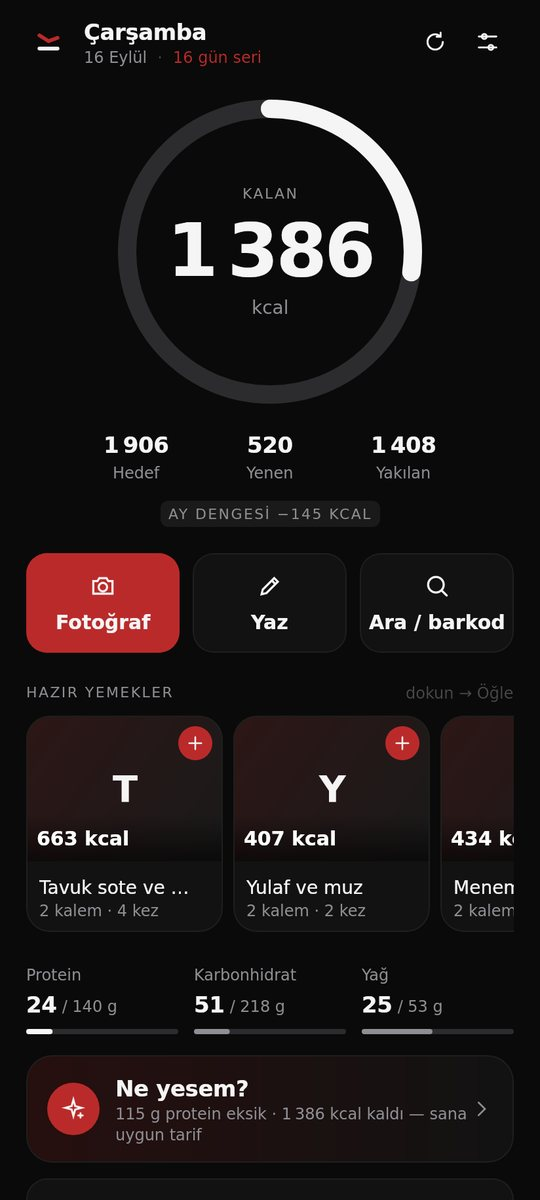
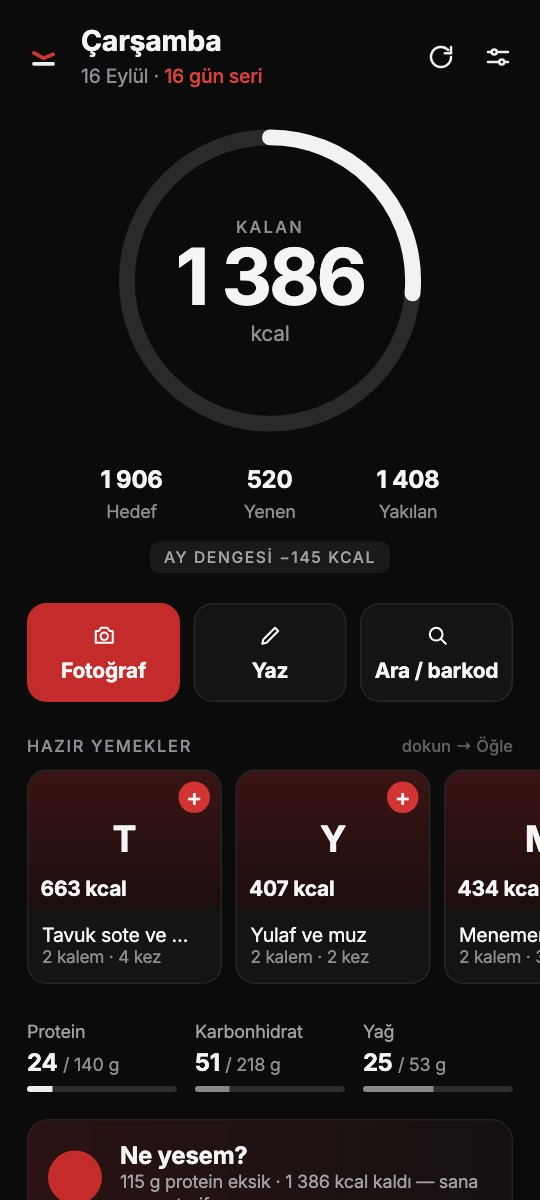
Switch the landing to the Akts red-orange accent and fan out the app phones

diff --git a/src/components/AppShowcase.tsx b/src/components/AppShowcase.tsx
@@ -3,45 +3,56 @@ import { ArrowUpRight } from 'lucide-react'
 import { Logo } from '@/components/Logos'
 import type { App } from '@/data/site'
 
-/** Uygulama vitrini: üstte uygulamanın kendi renginde panel ve gerçek ekran, altta künye. */
-export function AppShowcase({ app, delay }: { app: App; delay: number }) {
+/* Üç telefon yan yana dümdüz durunca katalog gibi görünüyordu.
+   Kenardakiler hafifçe dışa, ortadaki düz: birlikte bir yelpaze.
+   Hover'da hepsi düzelip yukarı kalkıyor. */
+const TILT = ['-5deg', '0deg', '5deg']
+
+/** Uygulama vitrini: üstte uygulamanın kendi renginde panel ve alttan taşan telefon, altta künye. */
+export function AppShowcase({ app, delay, index }: { app: App; delay: number; index: number }) {
   return (
     <a
       href={app.href}
-      className="anim group block overflow-hidden rounded-[.75rem] border bg-card shadow-[inset_0_1px_#ffffffe6,0_1px_2px_#0000000a] transition-[border-color,transform] duration-300 [transition-timing-function:cubic-bezier(.22,1,.36,1)] hover:-translate-y-1 hover:border-foreground/20"
-      style={{ '--d': `${delay}s` } as CSSProperties}
+      className="anim group flex h-full flex-col overflow-hidden rounded-[var(--radius)] border bg-card shadow-[inset_0_1px_#ffffff0d] transition-[border-color,transform] duration-500 [transition-timing-function:cubic-bezier(.22,1,.36,1)] hover:-translate-y-1.5 hover:border-foreground/20"
+      style={{ '--d': `${delay}s`, '--tilt': TILT[index % 3] } as CSSProperties}
     >
-      <div className="relative h-72 overflow-hidden" style={{ background: app.tint }}>
-        {/* Gerçekçi telefon: metal kasa, ince çerçeve, ön kamera. Alt kısmı panelin dışına taşıyor. */}
-        <div className="absolute left-1/2 top-10 w-[188px] -translate-x-1/2 rounded-[32px] bg-[linear-gradient(90deg,#8d9591,#eef2ef_6%,#b9c1bd_12%,#6f7773_50%,#b9c1bd_88%,#eef2ef_94%,#8d9591)] p-[3px] shadow-[0_24px_48px_-16px_rgba(0,0,0,.5)] transition-transform duration-500 [transition-timing-function:cubic-bezier(.34,1.32,.44,1)] group-hover:-translate-y-2">
-          <div className="relative rounded-[29px] bg-[#050807] p-[6px]">
+      <div className="relative h-60 overflow-hidden" style={{ background: app.tint }}>
+        {/* Panelin altına doğru erime: telefon kesik değil, içeri gömülü görünsün. */}
+        <span
+          aria-hidden="true"
+          className="pointer-events-none absolute inset-x-0 bottom-0 z-10 h-16 bg-gradient-to-t from-black/35 to-transparent"
+        />
+        <div className="absolute left-1/2 top-8 w-[150px] -translate-x-1/2 rotate-[var(--tilt)] rounded-[28px] bg-[linear-gradient(90deg,#8d9591,#eef2ef_6%,#b9c1bd_12%,#6f7773_50%,#b9c1bd_88%,#eef2ef_94%,#8d9591)] p-[3px] shadow-[0_30px_60px_-18px_rgba(0,0,0,.65)] transition-transform duration-700 [transition-timing-function:cubic-bezier(.34,1.32,.44,1)] group-hover:-translate-y-3 group-hover:rotate-0 motion-reduce:transition-none">
+          <div className="relative rounded-[25px] bg-[#050807] p-[5px]">
             <img
               src={app.shot}
               alt={`${app.name} ekranı`}
               loading="lazy"
-              className="block w-full rounded-[23px]"
+              className="block w-full rounded-[20px]"
             />
-            <span className="absolute left-1/2 top-[14px] h-2 w-2 -translate-x-1/2 rounded-full bg-black ring-2 ring-[#0d1110]" />
+            <span className="absolute left-1/2 top-[12px] h-[7px] w-[7px] -translate-x-1/2 rounded-full bg-black ring-2 ring-[#0d1110]" />
           </div>
         </div>
+        <span className="absolute right-3 top-3 z-10 grid h-8 w-8 place-items-center rounded-full bg-white/15 text-white backdrop-blur transition-transform duration-500 group-hover:rotate-45">
+          <ArrowUpRight className="h-4 w-4" />
+        </span>
       </div>
 
-      <div className="flex gap-4 border-t p-5 sm:p-6">
-        <Logo name={app.icon} className="h-12 w-12 shrink-0" />
-        <div className="min-w-0 flex-1">
-          <div className="flex items-center gap-2">
-            <span className="text-lg font-semibold tracking-[-0.02em]">{app.name}</span>
-            <ArrowUpRight className="ml-auto h-4 w-4 text-muted-foreground transition-transform duration-300 group-hover:-translate-y-0.5 group-hover:translate-x-0.5" />
+      <div className="flex flex-1 flex-col border-t p-5">
+        <div className="flex items-center gap-3">
+          <Logo name={app.icon} className="h-10 w-10 shrink-0" />
+          <div className="min-w-0">
+            <span className="block text-[17px] font-semibold leading-tight tracking-[-0.02em]">{app.name}</span>
+            <span className="block truncate text-[13px] text-muted-foreground">{app.tagline}</span>
           </div>
-          <p className="text-sm text-muted-foreground">{app.tagline}</p>
-          <p className="mt-3 text-sm leading-relaxed text-foreground/80">{app.desc}</p>
-          <div className="mt-4 flex flex-wrap gap-2">
-            {app.tags.map((t) => (
-              <span key={t} className="rounded-full bg-secondary px-2 py-1 text-xs font-medium text-muted-foreground">
-                {t}
-              </span>
-            ))}
-          </div>
+        </div>
+        <p className="mt-3 text-sm leading-relaxed text-foreground/80">{app.desc}</p>
+        <div className="mt-auto flex flex-wrap gap-1.5 pt-4">
+          {app.tags.map((t) => (
+            <span key={t} className="rounded-full bg-secondary px-2 py-0.5 text-[11px] font-medium text-muted-foreground">
+              {t}
+            </span>
+          ))}
         </div>
       </div>
     </a>

diff --git a/src/components/PersonSection.tsx b/src/components/PersonSection.tsx
@@ -11,7 +11,7 @@ function Avatar({ person }: { person: Person }) {
   return (
     <span
       className="grid h-14 w-14 shrink-0 place-items-center rounded-full p-[2px] shadow-[0_6px_20px_rgba(0,0,0,.35)] transition-transform duration-500 group-hover/head:-rotate-6 group-hover/head:scale-105"
-      style={{ background: 'linear-gradient(135deg,var(--ring-a),var(--ring-b))' }}
+      style={{ background: 'linear-gradient(135deg,var(--brand-accent),color-mix(in srgb,var(--brand-accent) 15%,transparent))' }}
     >
       {showImage ? (
         <img
@@ -35,6 +35,7 @@ function Avatar({ person }: { person: Person }) {
 export function PersonSection({ person, delay }: { person: Person; delay: number }) {
   return (
     <GlowCard
+      accent="var(--brand-accent)"
       className="anim mt-4 overflow-hidden p-5 sm:p-6"
       style={{ '--d': `${delay}s` } as CSSProperties}
     >
@@ -53,7 +54,7 @@ export function PersonSection({ person, delay }: { person: Person; delay: number
         <ul className="min-w-0 flex-1 border-t pt-1 md:border-l md:border-t-0 md:pl-8 md:pt-0"
             style={{ borderColor: 'hsl(var(--hairline))' }}>
           {person.links.map((link, i) => (
-            <LinkRow key={link.href} item={link} delay={delay + 0.06 * (i + 1)} />
+            <LinkRow key={link.href} item={{ ...link, accent: 'var(--brand-accent)' }} delay={delay + 0.06 * (i + 1)} />
           ))}
         </ul>
       </div>

diff --git a/src/App.tsx b/src/App.tsx
@@ -67,9 +67,7 @@ export default function App() {
             style={{ '--d': '.02s' } as CSSProperties}
           >
             Uygulamalar, siteler{' '}
-            <span className="bg-gradient-to-br from-foreground to-muted-foreground bg-clip-text text-transparent">
-              ve servisler.
-            </span>
+            <span style={{ color: 'var(--brand-accent)' }}>ve servisler.</span>
           </h1>
           <p
             className="anim mt-5 max-w-[50ch] text-[clamp(1rem,2vw,1.15rem)] leading-relaxed text-muted-foreground"
@@ -83,9 +81,9 @@ export default function App() {
             <SectionTitle count={apps.length} delay={0.13}>
               Uygulamalar
             </SectionTitle>
-            <div className="grid gap-4 sm:grid-cols-2">
+            <div className="grid gap-4 md:grid-cols-3">
               {apps.map((app, i) => (
-                <AppShowcase key={app.href} app={app} delay={0.17 + i * 0.06} />
+                <AppShowcase key={app.href} app={app} index={i} delay={0.17 + i * 0.06} />
               ))}
             </div>
           </section>

diff --git a/src/index.css b/src/index.css
@@ -47,7 +47,13 @@
     --c-mailapp: #1a73e8;
     --c-oyun: #e8390d;
     --c-n8n: #d43a60;
-    --c-portfolyo: #0a7ae0;
+    --c-portfolyo: #c8281c;
+
+    /* Marka vurgusu: portfolyo ve GitHub profiliyle aynı turuncu-kırmızı. */
+    --brand-accent: #c8281c;
+    --aurora-1: #ff5b4a;
+    --aurora-2: #ff8a3d;
+    --aurora-3: #c8281c;
     --c-mail: #0d9d63;
     --c-github: #24292f;
     --c-ezan: #0e7f5f;
@@ -92,7 +98,12 @@
     --c-mailapp: #4d90ff;
     --c-oyun: #ff6b3d;
     --c-n8n: #ea4b71;
-    --c-portfolyo: #3d9bff;
+    --c-portfolyo: #ff5b4a;
+
+    --brand-accent: #ff5b4a;
+    --aurora-1: #ff5b4a;
+    --aurora-2: #ff8a3d;
+    --aurora-3: #b3241a;
     --c-mail: #26c281;
     --c-github: #d8d8de;
     --c-ezan: #4fd1a5;
@@ -126,7 +137,8 @@
   }
 
   ::selection {
-    @apply bg-foreground text-background;
+    background: var(--brand-accent);
+    color: #fff;
   }
 
   /* Kaydırma çubuğu da temayı takip etsin — koyu sayfada beyaz bir

diff --git a/src/data/site.ts b/src/data/site.ts
@@ -70,7 +70,7 @@ export const apps: App[] = [
     desc: 'Fotoğraftan kalori, saatinden ölçülen yakım ve her gün yeniden dengelenen hedef.',
     href: 'https://fit.akts.tr',
     icon: 'fit',
-    shot: '/shots/aktasfit.jpg',
+    shot: '/shots/aktasfit.jpg?v=2',
     tint: 'radial-gradient(120% 90% at 50% 0%, #4a1414, #2a0b0b 55%, #120505)',
     tags: ['Android', 'Yapay zekâ', 'Widget'],
   },

diff --git a/src/components/AuroraGL.tsx b/src/components/AuroraGL.tsx
@@ -142,9 +142,9 @@ function readStops(): string[] {
   const pick = (name: string, fallback: string) =>
     s.getPropertyValue(name).trim() || fallback
   return [
-    pick('--c-portfolyo', '#0a7ae0'),
-    pick('--c-mailapp', '#1a73e8'),
-    pick('--c-oyun', '#6a42f0'),
+    pick('--aurora-1', '#ff5b4a'),
+    pick('--aurora-2', '#ff8a3d'),
+    pick('--aurora-3', '#c8281c'),
   ]
 }
 
